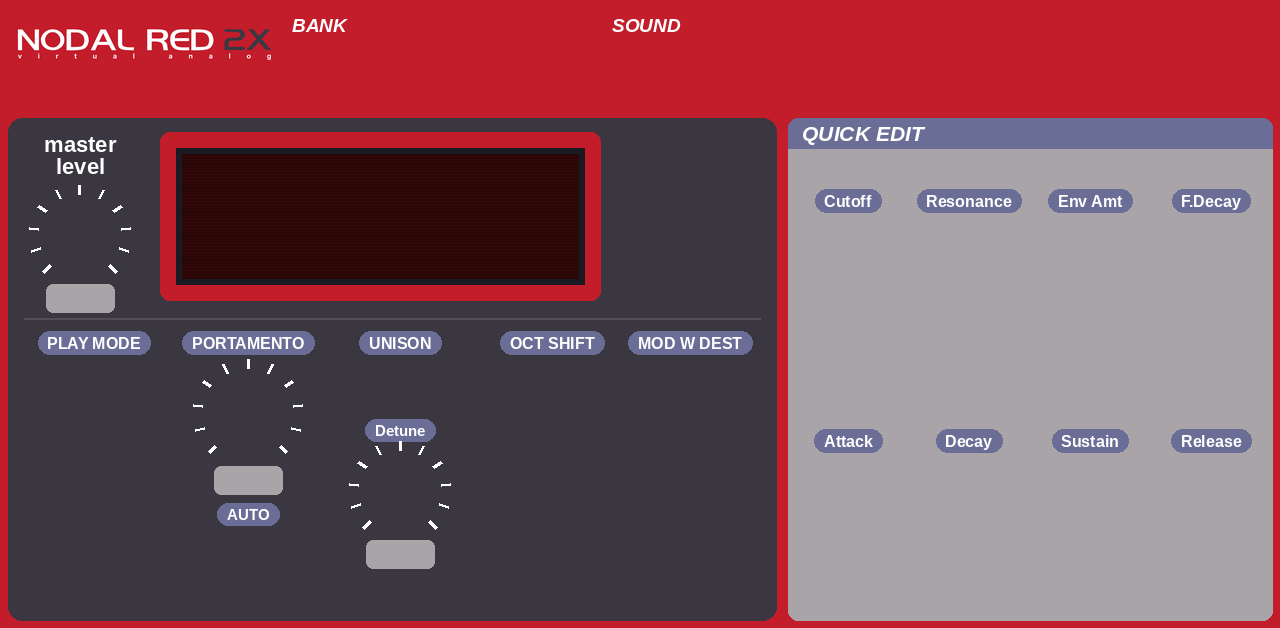
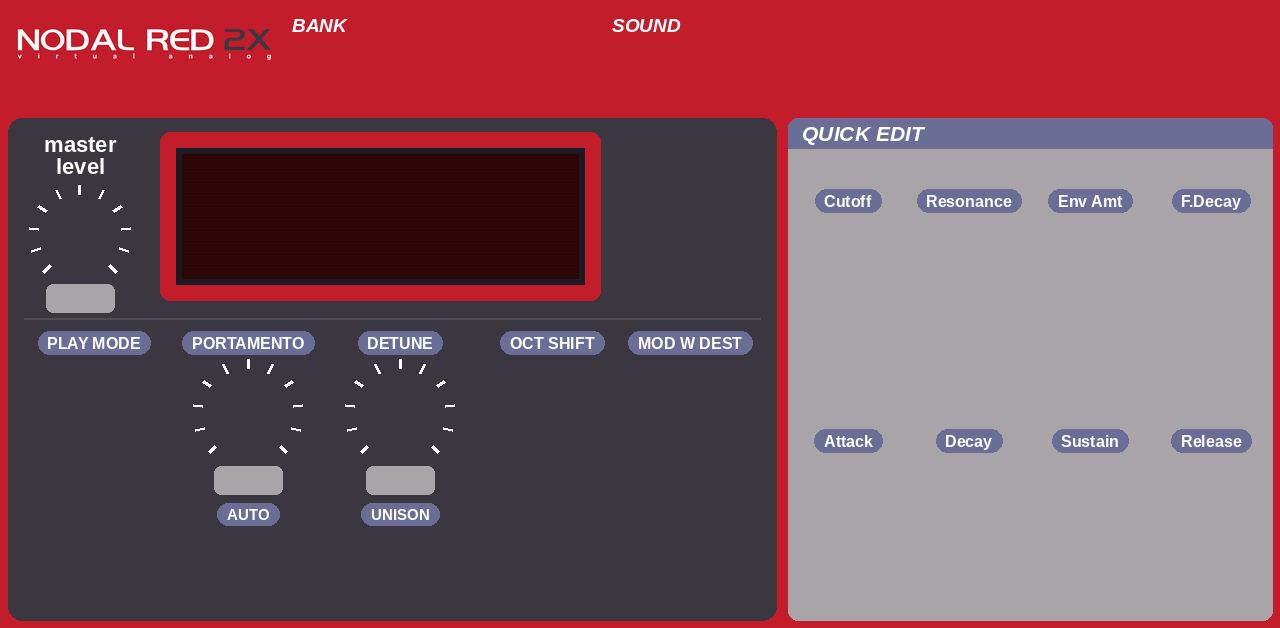
MAIN: detune knob in line with portamento, unison switch under it
Claude-Session: https://claude.ai/code/session_01JtHXuWUjaQhgDnqeAhxqaC

Changed region(s): [[0.2812, 0.6656, 0.3438, 0.9076], [0.2812, 0.5143, 0.3438, 0.5748]]

diff --git a/tools/make_skin.py b/tools/make_skin.py
@@ -183,10 +183,10 @@ p.chip(COLS[1], 334, "PORTAMENTO", 16)
 dark_knob(COLS[1], 414, "Portamento")
 p.chip(COLS[1], 506, "AUTO", 15)
 p.widgets.append('toggle cx=%d cy=%d label="" key=Auto ns=0' % (COLS[1], 552 + Y86))
-p.chip(COLS[2], 334, "UNISON", 16)
-p.widgets.append('toggle cx=%d cy=%d label="" key=Unison ns=0' % (COLS[2], 384 + Y86))
-p.chip(COLS[2], 422, "Detune", 15)
-dark_knob(COLS[2], 492, "unison_detune", 30)
+p.chip(COLS[2], 334, "DETUNE", 16)
+dark_knob(COLS[2], 414, "unison_detune")
+p.chip(COLS[2], 506, "UNISON", 15)
+p.widgets.append('toggle cx=%d cy=%d label="" key=Unison ns=0' % (COLS[2], 552 + Y86))
 p.chip(COLS[3], 334, "OCT SHIFT", 16)
 p.widgets.append('enum_v cx=%d cy=%d label="" key=OctaveShift sw=120 sh=40' % (COLS[3], 468 + Y86))
 p.chip(COLS[4], 334, "MOD W DEST", 16)
